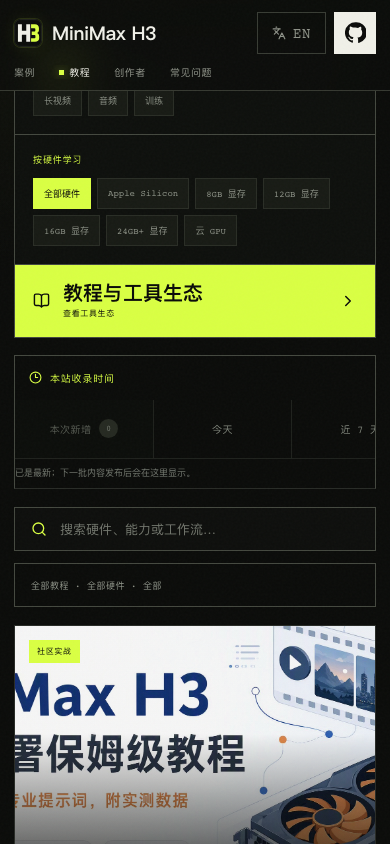
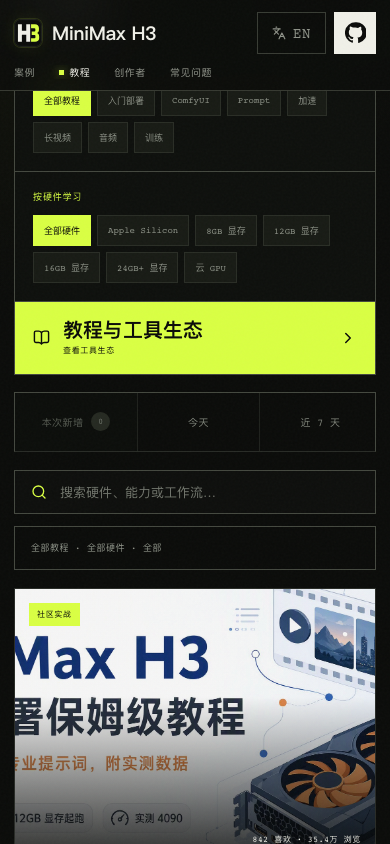
feat: curate stable editor picks

diff --git a/src/App.tsx b/src/App.tsx
@@ -174,6 +174,7 @@ function caseDetail(item: VideoCase): CaseDetail {
 const testCatalog: CatalogPayload | null = testCases && testTutorialGuides ? {
   version: 1,
   generatedAt: maxAddedAt([...testCases, ...testTutorialGuides]),
+  featuredCaseIds: ['official-ref2va-lamb', 'official-t2va-starship', 'x-yukyuk-h3-seedance-same-prompt'],
   cases: testCases.map(catalogCase),
   tutorials: testTutorialGuides.map(({ id, addedAt }) => ({ id, addedAt })),
 } : null
@@ -647,7 +648,7 @@ function App() {
       {route.page === 'tutorial-detail' && activeTutorial && tutorialGuides && tutorialResources && <TutorialDetailPage language={language} tutorial={activeTutorial} tutorialGuides={tutorialGuides} tutorialResources={tutorialResources} />}
       {route.page === 'tutorial-detail' && tutorialGuides && !activeTutorial && <TutorialNotFound language={language} />}
       {route.page === 'creators' && creatorCatalog && catalog && tutorialGuides && <CreatorsPage language={language} creatorCatalog={creatorCatalog} cases={catalog.cases} tutorialGuides={tutorialGuides} />}
-      {route.page === 'creator-detail' && activeCreator && catalog && tutorialGuides && <CreatorDetailPage language={language} creator={activeCreator} cases={catalog.cases} tutorialGuides={tutorialGuides} />}
+      {route.page === 'creator-detail' && activeCreator && catalog && tutorialGuides && <CreatorDetailPage language={language} creator={activeCreator} cases={catalog.cases} featuredCaseIds={catalog.featuredCaseIds} tutorialGuides={tutorialGuides} />}
       {route.page === 'creator-detail' && creatorCatalog && !activeCreator && <CreatorNotFound language={language} />}
       {route.page !== 'home' && route.page !== 'faq' && ((!catalog && catalogError) || routeDataError) && <ResourceState language={language} failed onRetry={() => { reloadCatalog(); reloadRouteData() }} />}
       {route.page !== 'home' && route.page !== 'faq' && !routeDataError && (!catalog || (needsTutorials && !tutorialGuides) || (needsCreators && !creatorCatalog)) && <ResourceState language={language} />}
@@ -1070,7 +1071,8 @@ function HomePage({
   const sentinelRef = useRef<HTMLDivElement | null>(null)
   const [updateVisibilityTarget, setUpdateVisibilityTarget] = useState<HTMLDivElement | null>(null)
   const filteredLengthRef = useRef(0)
-  const lastAutomaticLoadAtRef = useRef(Number.NEGATIVE_INFINITY)
+  const lastLoadRef = useRef<{ at: number; source: 'automatic' | 'manual' | null }>({ at: Number.NEGATIVE_INFINITY, source: null })
+  const lastAutomaticScrollYRef = useRef(Number.NEGATIVE_INFINITY)
   const updateInitializedRef = useRef(Boolean(updateSession))
   const [introReady, setIntroReady] = useState(false)
   const testSearchMap = useMemo(() => {
@@ -1107,10 +1109,11 @@ function HomePage({
   const allCategories = useMemo(() => [...new Set(cases.map((item) => item.category))], [cases])
   const allStyles = useMemo(() => [...new Set(cases.flatMap((item) => item.styles))], [cases])
   const allScenes = useMemo(() => [...new Set(cases.flatMap((item) => item.scenes))], [cases])
-  const featuredCaseIds = useMemo(() => new Set(cases
-    .filter((item) => item.verified && Boolean(item.mediaUrl) && item.hasPrompt)
-    .slice(0, 24)
-    .map((item) => item.id)), [cases])
+  const featuredCaseOrder = useMemo(
+    () => new Map((catalog?.featuredCaseIds ?? []).map((id, index) => [id, index])),
+    [catalog?.featuredCaseIds],
+  )
+  const featuredCaseIds = useMemo(() => new Set(featuredCaseOrder.keys()), [featuredCaseOrder])
   const latestCaseIds = useMemo(() => new Set([...cases]
     .sort((a, b) => Date.parse(b.addedAt) - Date.parse(a.addedAt))
     .slice(0, 48)
@@ -1185,8 +1188,11 @@ function HomePage({
       return matchesDuration && matchesCategory && matchesStyle && matchesScene && matchesPrompt && matchesCollection && matchesAdded
         && (!needle || haystack.includes(needle))
     })
+    if (activeCollection === 'featured') {
+      return matching.sort((a, b) => (featuredCaseOrder.get(a.id) ?? Number.MAX_SAFE_INTEGER) - (featuredCaseOrder.get(b.id) ?? Number.MAX_SAFE_INTEGER))
+    }
     return sortByAddedAtDescending(matching)
-  }, [activeAddedDate, activeCategory, activeCollection, activeDuration, activeScene, activeStyle, cases, deferredQuery, favorites, featuredCaseIds, language, latestCaseIds, promptOnly, searchRecords, updateSession?.cases])
+  }, [activeAddedDate, activeCategory, activeCollection, activeDuration, activeScene, activeStyle, cases, deferredQuery, favorites, featuredCaseIds, featuredCaseOrder, language, latestCaseIds, promptOnly, searchRecords, updateSession?.cases])
 
   const hasMore = visibleCount < filtered.length
   useEffect(() => {
@@ -1196,24 +1202,41 @@ function HomePage({
     setVisibleCount((current) => Math.min(current + 24, filteredLengthRef.current))
   }, [])
   const loadMoreAutomatically = useCallback(() => {
-    lastAutomaticLoadAtRef.current = performance.now()
+    const now = performance.now()
+    if (now - lastLoadRef.current.at < 1_500) return
+    lastLoadRef.current = { at: now, source: 'automatic' }
     loadMore()
   }, [loadMore])
   const loadMoreManually = useCallback(() => {
-    if (performance.now() - lastAutomaticLoadAtRef.current < 1_500) return
+    const now = performance.now()
+    if (lastLoadRef.current.source === 'automatic' && now - lastLoadRef.current.at < 1_500) return
+    lastLoadRef.current = { at: now, source: 'manual' }
     loadMore()
   }, [loadMore])
   const catalogReady = Boolean(catalog)
 
   useEffect(() => {
     const sentinel = sentinelRef.current
-    const Observer = window.IntersectionObserver
-    if (!sentinel || !catalogReady || typeof Observer !== 'function') return
-    const observer = new Observer((entries) => {
-      if (entries.some((entry) => entry.isIntersecting)) loadMoreAutomatically()
-    }, { rootMargin: '1200px 0px' })
-    observer.observe(sentinel)
-    return () => observer.disconnect()
+    if (!sentinel || !catalogReady) return
+    let timer: number | null = null
+    const maybeLoad = () => {
+      if (timer !== null) window.clearTimeout(timer)
+      timer = window.setTimeout(() => {
+        timer = null
+        const bounds = sentinel.getBoundingClientRect()
+        const nearViewport = bounds.top <= window.innerHeight + 1_200 && bounds.bottom >= -1_200
+        if (!nearViewport || Math.abs(window.scrollY - lastAutomaticScrollYRef.current) < 120) return
+        lastAutomaticScrollYRef.current = window.scrollY
+        loadMoreAutomatically()
+      }, 500)
+    }
+    window.addEventListener('scroll', maybeLoad, { passive: true })
+    window.addEventListener('resize', maybeLoad)
+    return () => {
+      window.removeEventListener('scroll', maybeLoad)
+      window.removeEventListener('resize', maybeLoad)
+      if (timer !== null) window.clearTimeout(timer)
+    }
   }, [catalogReady, loadMoreAutomatically])
 
   const visibleCases = filtered.slice(0, visibleCount)
@@ -1412,6 +1435,7 @@ function HomePage({
               isFavorite={favorites.has(item.id)}
               onFavorite={() => toggleFavorite(item.id)}
               isNew={updateSession?.cases.ids.has(item.id) ?? false}
+              isFeatured={featuredCaseIds.has(item.id)}
             />
           ))}
           {!catalog && !catalogError ? Array.from({ length: 12 }, (_, index) => <div className="case-card case-card-skeleton" key={index} aria-hidden="true"><span /></div>) : null}
@@ -1495,6 +1519,7 @@ function CaseCard({
   isFavorite,
   onFavorite,
   isNew,
+  isFeatured,
 }: {
   item: CatalogCase
   index: number
@@ -1503,6 +1528,7 @@ function CaseCard({
   isFavorite: boolean
   onFavorite: () => void
   isNew: boolean
+  isFeatured: boolean
 }) {
   const t = copy[language].card
   const title = caseTitle(item, language)
@@ -1577,6 +1603,7 @@ function CaseCard({
       <div className="case-meta">
         <div className="added-at-meta">
           {isNew ? <strong>{copy[language].catalog.newlyAdded}</strong> : null}
+          {isFeatured ? <strong className="featured-label">{copy[language].catalog.featuredLabel}</strong> : null}
           <time dateTime={item.addedAt}>{copy[language].catalog.addedOn(formatAddedDate(item.addedAt, language))}</time>
         </div>
         <div className="mode-line">
@@ -2368,7 +2395,7 @@ function CreatorsPage({ language, creatorCatalog, cases, tutorialGuides }: { lan
   )
 }
 
-function CreatorDetailPage({ language, creator, cases, tutorialGuides }: { language: Language; creator: CreatorProfile; cases: CatalogCase[]; tutorialGuides: TutorialGuide[] }) {
+function CreatorDetailPage({ language, creator, cases, featuredCaseIds, tutorialGuides }: { language: Language; creator: CreatorProfile; cases: CatalogCase[]; featuredCaseIds: string[]; tutorialGuides: TutorialGuide[] }) {
   const t = copy[language].creators
   const [savedCreators, setSavedCreators] = useState(() => loadStoredSet(favoriteCreatorStorageKey))
   const [favoriteCases, setFavoriteCases] = useState(() => loadStoredSet(favoriteStorageKey))
@@ -2380,6 +2407,7 @@ function CreatorDetailPage({ language, creator, cases, tutorialGuides }: { langu
   const creatorCategories = [...new Set(creatorCases.map((item) => item.category))]
   const creatorTutorials = creator.tutorialIds.map((id) => tutorialGuides.find((item) => item.id === id)).filter((item): item is TutorialGuide => Boolean(item))
   const saved = savedCreators.has(creator.id)
+  const featuredIds = useMemo(() => new Set(featuredCaseIds), [featuredCaseIds])
 
   useEffect(() => {
     const url = new URL(window.location.href)
@@ -2452,7 +2480,7 @@ function CreatorDetailPage({ language, creator, cases, tutorialGuides }: { langu
               </div>
             </header>
             <div className="case-grid">
-              {filteredCases.map((item, index) => <CaseCard key={item.id} item={item} index={index} language={language} onOpen={(video) => { track('case-open', { caseId: item.id, category: item.category, mode: item.mode, source: 'creator', locale: language }); setSelected({ item, video }) }} isFavorite={favoriteCases.has(item.id)} onFavorite={() => toggleCase(item.id)} isNew={false} />)}
+              {filteredCases.map((item, index) => <CaseCard key={item.id} item={item} index={index} language={language} onOpen={(video) => { track('case-open', { caseId: item.id, category: item.category, mode: item.mode, source: 'creator', locale: language }); setSelected({ item, video }) }} isFavorite={favoriteCases.has(item.id)} onFavorite={() => toggleCase(item.id)} isNew={false} isFeatured={featuredIds.has(item.id)} />)}
             </div>
             {filteredCases.length === 0 && <div className="creator-empty"><p>{t.noCases}</p></div>}
           </section>

diff --git a/src/App.test.tsx b/src/App.test.tsx
@@ -201,6 +201,20 @@ describe('case-first routes', () => {
     expect(window.location.search).toBe('?collection=official')
   })
 
+  it('renders editor picks from the explicit ordered catalog without requiring a Prompt', () => {
+    renderAt('/?collection=featured')
+
+    const cards = [...document.querySelectorAll('.case-card')]
+    expect(cards).toHaveLength(3)
+    expect(cards.map((card) => card.querySelector('h2')?.textContent)).toEqual([
+      '粉色西装与黑色羔羊',
+      '舰桥上的跃迁余震',
+      '同提示词 H3 与 Seedance 对比',
+    ])
+    expect(cards.every((card) => card.querySelector('.featured-label')?.textContent === '精选')).toBe(true)
+    expect(screen.queryByText('餐厅时间冻结与逆向复原')).not.toBeInTheDocument()
+  })
+
   it('treats quick collections as isolated folders that reset the filters above them', () => {
     renderAt('/')
     const collections = screen.getByRole('group', { name: '快速集合' })

diff --git a/src/i18n.ts b/src/i18n.ts
@@ -121,6 +121,7 @@ export const copy = {
       },
       favoriteAdd: '收藏案例',
       favoriteRemove: '取消收藏',
+      featuredLabel: '精选',
       advanced: '更多筛选',
       advancedActive: '更多筛选 · 已启用',
       category: '内容分类',
@@ -395,6 +396,7 @@ export const copy = {
       },
       favoriteAdd: 'Save case',
       favoriteRemove: 'Remove from saved',
+      featuredLabel: 'Featured',
       advanced: 'More filters',
       advancedActive: 'More filters · Active',
       category: 'Category',

diff --git a/src/types.ts b/src/types.ts
@@ -41,6 +41,10 @@ export interface VideoCase {
   approvedAt?: string
   attributionNote?: string
   editorialBasis?: string
+  featured?: {
+    at: string
+    basis: 'official' | 'manual' | 'trending'
+  }
 }
 
 export interface CatalogCase {
@@ -85,6 +89,7 @@ export interface SearchRecord {
 export interface CatalogPayload {
   version: number
   generatedAt: string
+  featuredCaseIds: string[]
   cases: CatalogCase[]
   tutorials: Array<{ id: string; addedAt: string }>
 }

diff --git a/src/styles.css b/src/styles.css
@@ -4150,6 +4150,12 @@ body.intro-open {
   font-weight: 500;
 }
 
+.added-at-meta .featured-label {
+  color: var(--acid);
+  background: transparent;
+  border: 1px solid color-mix(in srgb, var(--acid) 48%, transparent);
+}
+
 .added-at-meta time {
   white-space: nowrap;
 }

diff --git a/README.md b/README.md
@@ -52,7 +52,7 @@ The homepage remains case-first. Quick collections are independent entry points:
 
 [![MiniMax H3 latest additions ordered by catalog date](./docs/screenshots/latest-collection-en.jpg)](https://h3-field-notes-production.up.railway.app/en/?collection=latest)
 
-- [Editor picks](https://h3-field-notes-production.up.railway.app/en/?collection=featured) — verified, playable cases with a complete public Prompt.
+- [Editor picks](https://h3-field-notes-production.up.railway.app/en/?collection=featured) — a stable set of 24–28 playable cases, refreshed periodically from public engagement signals and human source checks.
 - [Latest additions](https://h3-field-notes-production.up.railway.app/en/?collection=latest) — the existing compatible link, now ordered by first catalog addition rather than source publication date.
 - [Official examples](https://h3-field-notes-production.up.railway.app/en/?collection=official) — reproducible MiniMax scripts and source evidence.
 - [Long videos](https://h3-field-notes-production.up.railway.app/en/?collection=long) — outputs longer than 15 seconds.
@@ -116,7 +116,7 @@ Example output is structured as a recommended route, environment check, executio
 ## Data, automation, and trust
 
 <!-- project-snapshot:start -->
-**Current generated snapshot:** 1318 cases · 374 complete public Prompts · 24 tutorials · 264 ranked creators from 784 source authors · 8 flagship guides · 14 ecosystem resources · content checked through 2026-09-05.
+**Current generated snapshot:** 1318 cases · 28 Editor picks · 374 complete public Prompts · 24 tutorials · 264 ranked creators from 784 source authors · 8 flagship guides · 14 ecosystem resources · content checked through 2026-09-05.
 <!-- project-snapshot:end -->
 
 - [`data/project-stats.json`](./data/project-stats.json) is the canonical public count snapshot; CI rejects stale website and README numbers.
@@ -144,7 +144,7 @@ The source of truth remains `data/cases.json`, but production builds no longer s
 - Run `npm run videos:playback:audit` for a read-only inventory, `npm run videos:playback:migrate -- --apply` to populate the versioned playback tier, and `npm run videos:playback:verify` before switching or after a release. Migration reports stay in ignored `.review/` files.
 
 <!-- build-metrics:start -->
-**Current production build:** 98.4 kB homepage JavaScript gzip · 9.9 kB / 9.2 kB Chinese / English homepage HTML gzip · 146.9 kB catalog gzip · 699.7 kB / 664 kB Chinese / English search indexes gzip. Run `npm run performance:budget` for static budgets and `npm run performance:browser` against a local production server for browser behavior.
+**Current production build:** 99.3 kB homepage JavaScript gzip · 9.9 kB / 9.2 kB Chinese / English homepage HTML gzip · 147.3 kB catalog gzip · 699.7 kB / 664 kB Chinese / English search indexes gzip. Run `npm run performance:budget` for static budgets and `npm run performance:browser` against a local production server for browser behavior.
 <!-- build-metrics:end -->
 
 ## Contribute or report a problem

diff --git a/README.zh-CN.md b/README.zh-CN.md
@@ -52,7 +52,7 @@ MiniMax H3 也常被搜索为 **Hailuo H3**、**Hailuo 3.0**、**海螺 H3** 和
 
 [![按本站收录日期排列的 MiniMax H3 最新案例](./docs/screenshots/latest-collection-zh.jpg)](https://h3-field-notes-production.up.railway.app/?collection=latest)
 
-- [编辑精选](https://h3-field-notes-production.up.railway.app/?collection=featured)：可播放、来源明确且带完整公开 Prompt 的代表案例；
+- [编辑精选](https://h3-field-notes-production.up.railway.app/?collection=featured)：稳定保持 24–28 条可播放案例，基于公开互动表现与人工来源核验定期更新；
 - [最新收录](https://h3-field-notes-production.up.railway.app/?collection=latest)：保留原兼容入口，现按首次进入本站目录的时间排序，而不是来源发布时间；
 - [官方案例](https://h3-field-notes-production.up.railway.app/?collection=official)：MiniMax 可复现脚本与公开证据；
 - [长视频](https://h3-field-notes-production.up.railway.app/?collection=long)：集中查看超过 15 秒的输出；
@@ -116,7 +116,7 @@ npx skills add https://github.com/SkyNotSilent/awesome-minimax-h3-cases \
 ## 数据、自动化与可信度
 
 <!-- project-snapshot:start -->
-**当前自动统计：** 1318 个案例 · 374 条完整公开 Prompt · 24 篇教程 · 784 位来源作者中的 264 位优质创作者 · 8 篇旗舰教程 · 14 个生态资源 · 内容核验至 2026-09-05。
+**当前自动统计：** 1318 个案例 · 28 条编辑精选 · 374 条完整公开 Prompt · 24 篇教程 · 784 位来源作者中的 264 位优质创作者 · 8 篇旗舰教程 · 14 个生态资源 · 内容核验至 2026-09-05。
 <!-- project-snapshot:end -->
 
 - [`data/project-stats.json`](./data/project-stats.json) 是公开数字的唯一快照；网站与 README 数字过期会让 CI 失败；
@@ -144,7 +144,7 @@ npx skills add https://github.com/SkyNotSilent/awesome-minimax-h3-cases \
 - `npm run videos:playback:audit` 执行只读清点，`npm run videos:playback:migrate -- --apply` 生成版本化播放层，切换前后运行 `npm run videos:playback:verify`；迁移报告只保存在被忽略的 `.review/`。
 
 <!-- build-metrics:start -->
-**当前生产构建：** 首页 JavaScript gzip 98.4 kB · 中文 / 英文首页 HTML gzip 9.9 kB / 9.2 kB · 目录 gzip 146.9 kB · 中文 / 英文搜索索引 gzip 699.7 kB / 664 kB。静态预算运行 `npm run performance:budget`；启动本地生产服务后运行 `npm run performance:browser` 验证浏览器行为。
+**当前生产构建：** 首页 JavaScript gzip 99.3 kB · 中文 / 英文首页 HTML gzip 9.9 kB / 9.2 kB · 目录 gzip 147.3 kB · 中文 / 英文搜索索引 gzip 699.7 kB / 664 kB。静态预算运行 `npm run performance:budget`；启动本地生产服务后运行 `npm run performance:browser` 验证浏览器行为。
 <!-- build-metrics:end -->
 
 ## 投稿、纠错与下架
